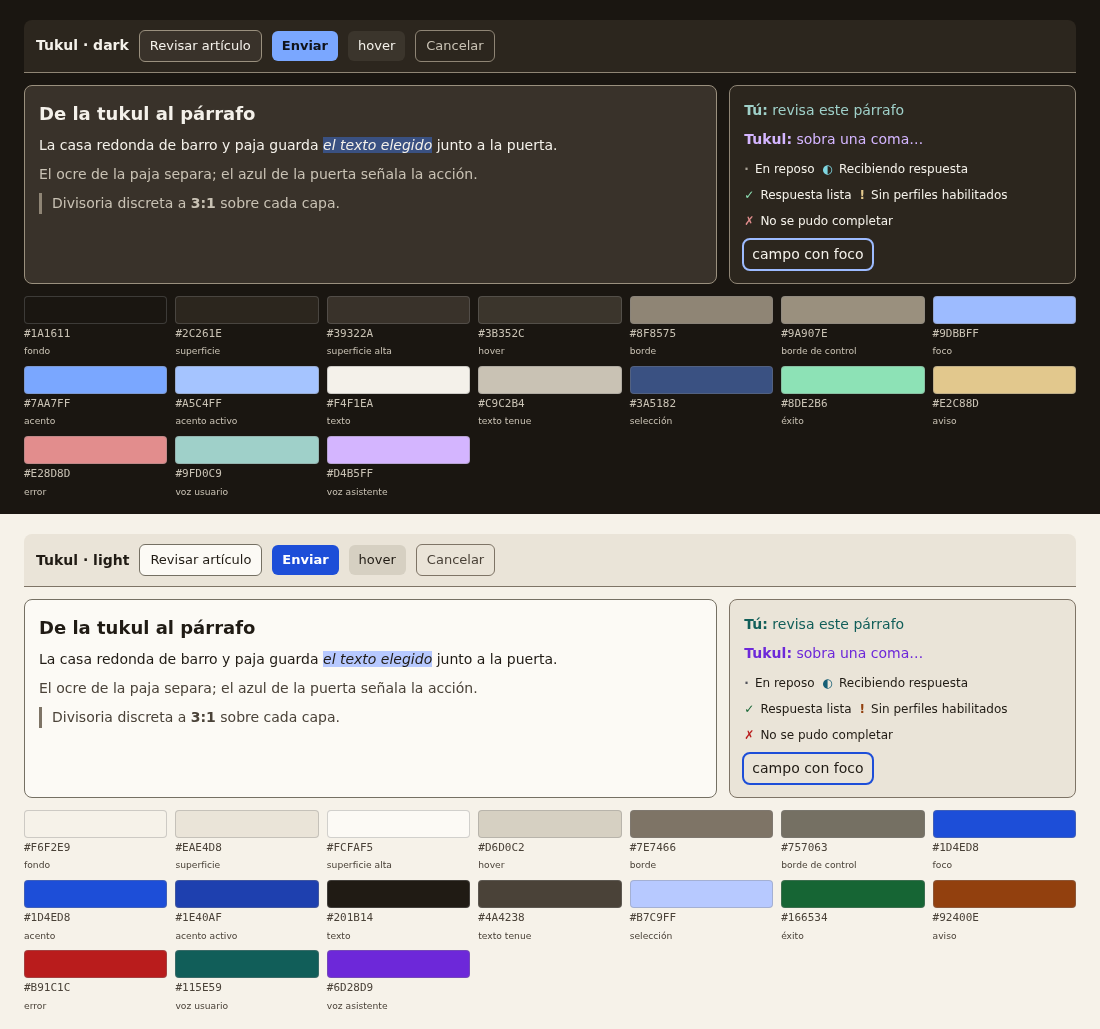
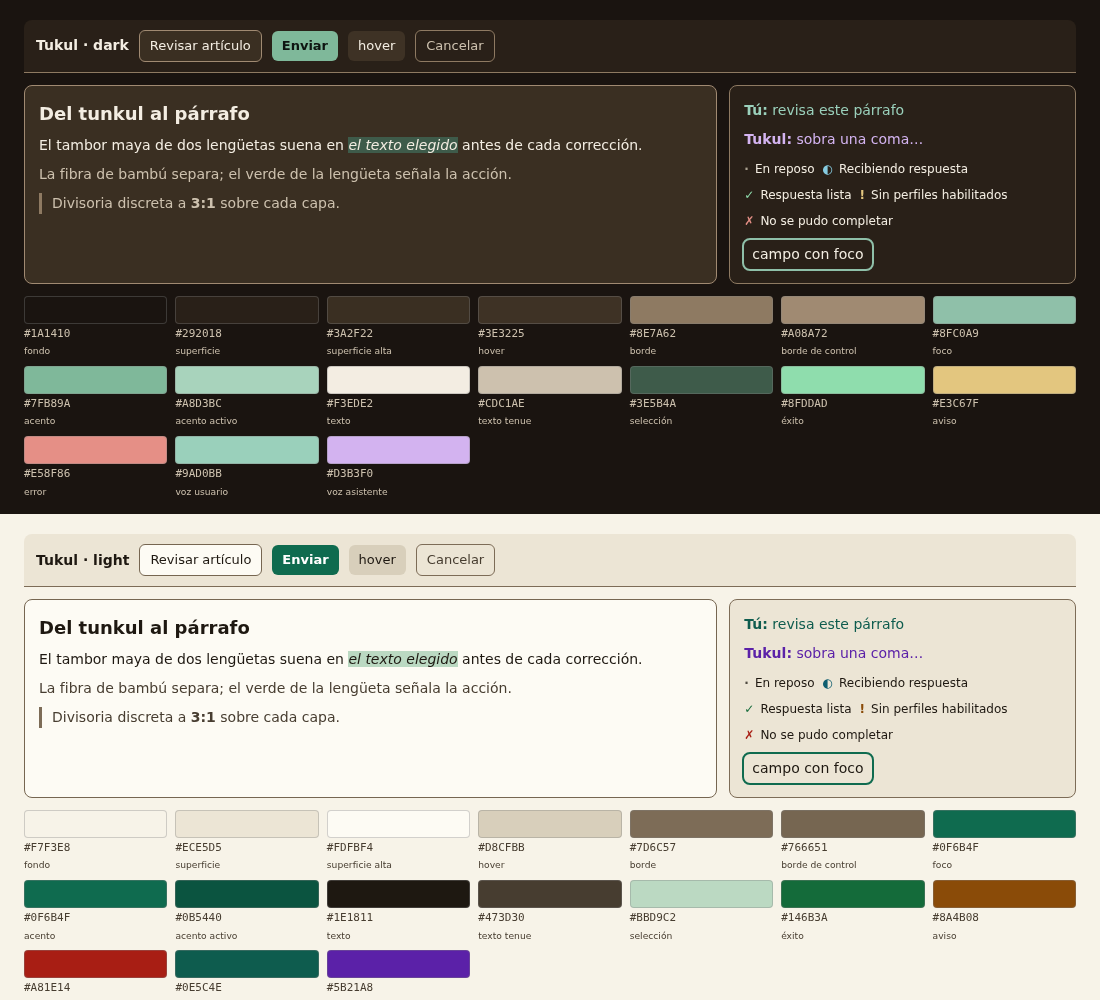
test(docs): la captura de la paleta ya no puede quedar desfasada
La hoja de muestras seguía mostrando la paleta anterior y ningún test lo
detectaba: el que existía comparaba el HTML generado, no los píxeles del PNG.

- Regenerada docs/screenshots/paleta-tukul.png con la paleta del tunkul.
- Dos frases de la hoja dejan de hablar del azul de la puerta.
- Test nuevo que descomprime el PNG, deshace los filtros de línea y exige que
  aparezcan las capas y el acento de los dos temas. Sin dependencias.

Evidencia: el test nuevo falla con la imagen anterior (RED) y pasa con la
regenerada (GREEN); gate verde en 3.13, 3.11 y 3.12 con 601 pruebas.

Pendiente: docs/screenshots/tukul.png (ventana real). Se intentó capturarla
en Xvfb y el resultado salió desalineado; no se sustituye por una imagen mala.
Requiere captura desde un escritorio real, como ya advertía el plan.

Changed region(s): [[0.0, 0.031, 1.0, 0.992]]

diff --git a/tests/test_paleta_preview.py b/tests/test_paleta_preview.py
@@ -37,6 +37,83 @@ def test_la_hoja_de_muestras_existe_y_es_png():
         assert fichero.read(8) == _SOLO_PNG
 
 
+def _pixeles_de_png(datos: bytes) -> tuple[int, int, set[bytes]]:
+    """Devuelve (ancho, alto, colores distintos) leyendo un PNG RGB de 8 bits.
+
+    Sin dependencias: descomprime los IDAT y deshace los filtros de línea
+    (Sub, Up, Average, Paeth), que los codificadores aplican por defecto.
+    """
+    import struct
+    import zlib
+
+    ancho, alto, profundidad, tipo = struct.unpack(">IIBB", datos[16:26])
+    assert profundidad == 8 and tipo == 2, "Se espera PNG RGB de 8 bits"
+
+    pos = 8
+    idat = b""
+    while pos < len(datos):
+        longitud = struct.unpack(">I", datos[pos:pos + 4])[0]
+        if datos[pos + 4:pos + 8] == b"IDAT":
+            idat += datos[pos + 8:pos + 8 + longitud]
+        pos += 12 + longitud
+
+    crudo = zlib.decompress(idat)
+    ancho_fila = ancho * 3 + 1
+    anterior = bytearray(ancho * 3)
+    pixeles: set[bytes] = set()
+    for y in range(alto):
+        inicio = y * ancho_fila
+        filtro = crudo[inicio]
+        fila = bytearray(crudo[inicio + 1:inicio + ancho_fila])
+        for i in range(len(fila)):
+            izq = fila[i - 3] if i >= 3 else 0
+            arriba = anterior[i]
+            arriba_izq = anterior[i - 3] if i >= 3 else 0
+            if filtro == 1:
+                fila[i] = (fila[i] + izq) & 0xFF
+            elif filtro == 2:
+                fila[i] = (fila[i] + arriba) & 0xFF
+            elif filtro == 3:
+                fila[i] = (fila[i] + (izq + arriba) // 2) & 0xFF
+            elif filtro == 4:
+                estimado = izq + arriba - arriba_izq
+                pa, pb, pc = (abs(estimado - izq), abs(estimado - arriba),
+                              abs(estimado - arriba_izq))
+                pred = izq if (pa <= pb and pa <= pc) else (arriba if pb <= pc else arriba_izq)
+                fila[i] = (fila[i] + pred) & 0xFF
+        anterior = fila
+        for x in range(0, len(fila), 3):
+            pixeles.add(bytes(fila[x:x + 3]))
+    return ancho, alto, pixeles
+
+
+def test_la_captura_no_queda_desfasada_de_la_paleta():
+    """La IMAGEN debe contener los colores vigentes, no solo el HTML.
+
+    `test_los_colores_de_la_hoja_coinciden_con_la_paleta` compara el HTML
+    generado, así que un PNG viejo pasaba igual: el README enseñaba colores
+    que ya no existían. Aquí se leen los píxeles del PNG y se exige que
+    aparezcan las capas y el acento de los dos temas.
+
+    Si falla por un cambio de paleta intencionado, regenera la captura.
+    """
+    from tukul_ui import estilo as es
+
+    datos = IMAGEN.read_bytes()
+    assert datos[:8] == _SOLO_PNG, "La captura no es un PNG"
+    _ancho, _alto, pixeles = _pixeles_de_png(datos)
+
+    esperados = {
+        bytes.fromhex(es.PALETAS[tema][clave].lstrip("#").upper())
+        for tema in ("dark", "light")
+        for clave in ("fondo", "superficie_alta", "acento")
+    }
+    assert esperados <= pixeles, (
+        "La captura no contiene los colores vigentes; regenérala con "
+        "`python scripts/paleta_preview.py` y una captura de la hoja"
+    )
+
+
 def test_los_colores_de_la_hoja_coinciden_con_la_paleta():
     preview = _cargar_script()
     html = preview.pagina()

diff --git a/scripts/paleta_preview.py b/scripts/paleta_preview.py
@@ -62,7 +62,7 @@ def bloque_tema(tema: str) -> str:
     <article style="background:{t["superficie_alta"]};border:1px solid {t["borde_control"]}">
       <h2 style="color:{t["texto"]}">Del tunkul al párrafo</h2>
       <p style="color:{t["texto"]}">El tambor maya de dos lengüetas suena en <em style="background:{t["seleccion"]}">el texto elegido</em> antes de cada corrección.</p>
-      <p style="color:{t["texto_tenue"]}">El ocre de la madera separa; el azul del acento señala la acción.</p>
+      <p style="color:{t["texto_tenue"]}">La fibra de bambú separa; el verde de la lengüeta señala la acción.</p>
       <p class="cita" style="border-left:3px solid {t["borde"]};color:{t["texto_tenue"]}">Divisoria discreta a <b>3:1</b> sobre cada capa.</p>
     </article>
     <aside style="background:{t["superficie"]};border:1px solid {t["borde"]}">
